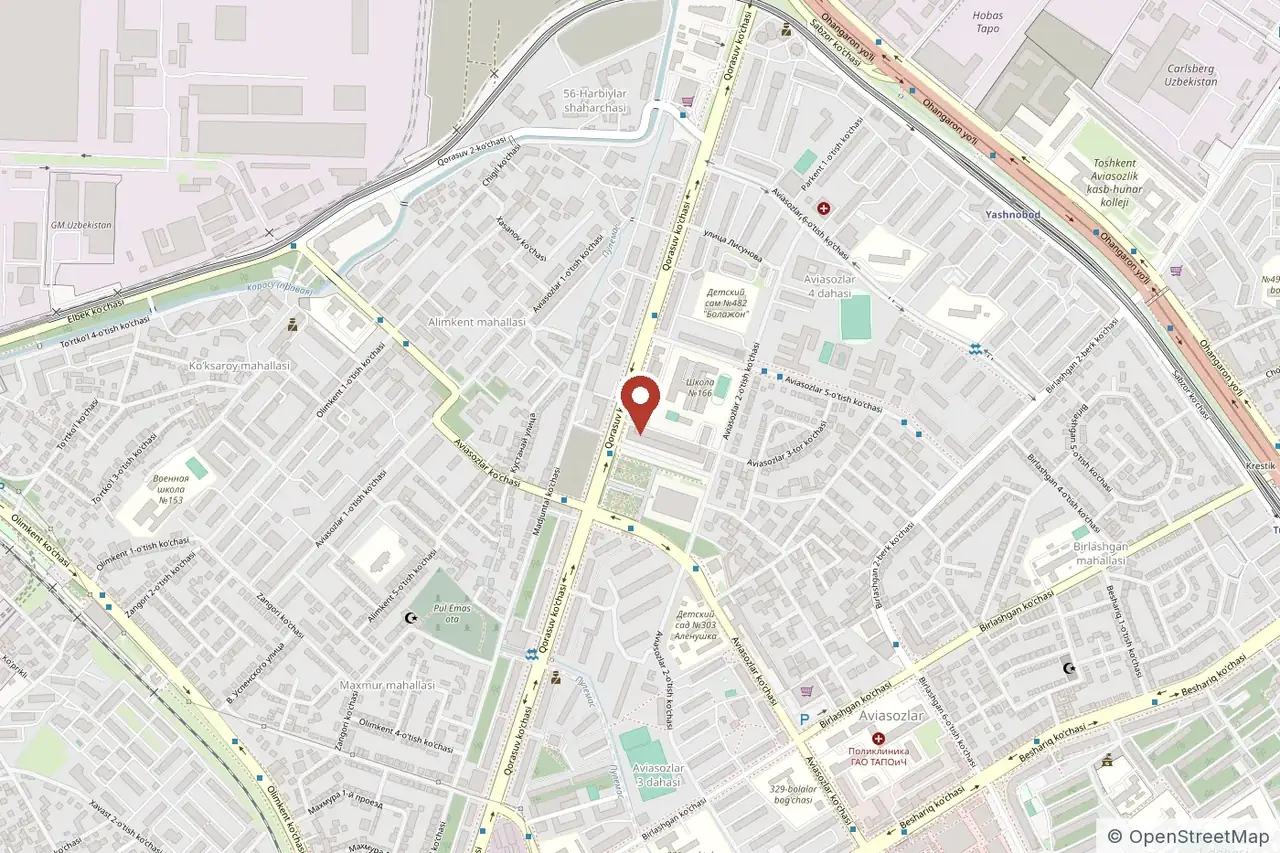
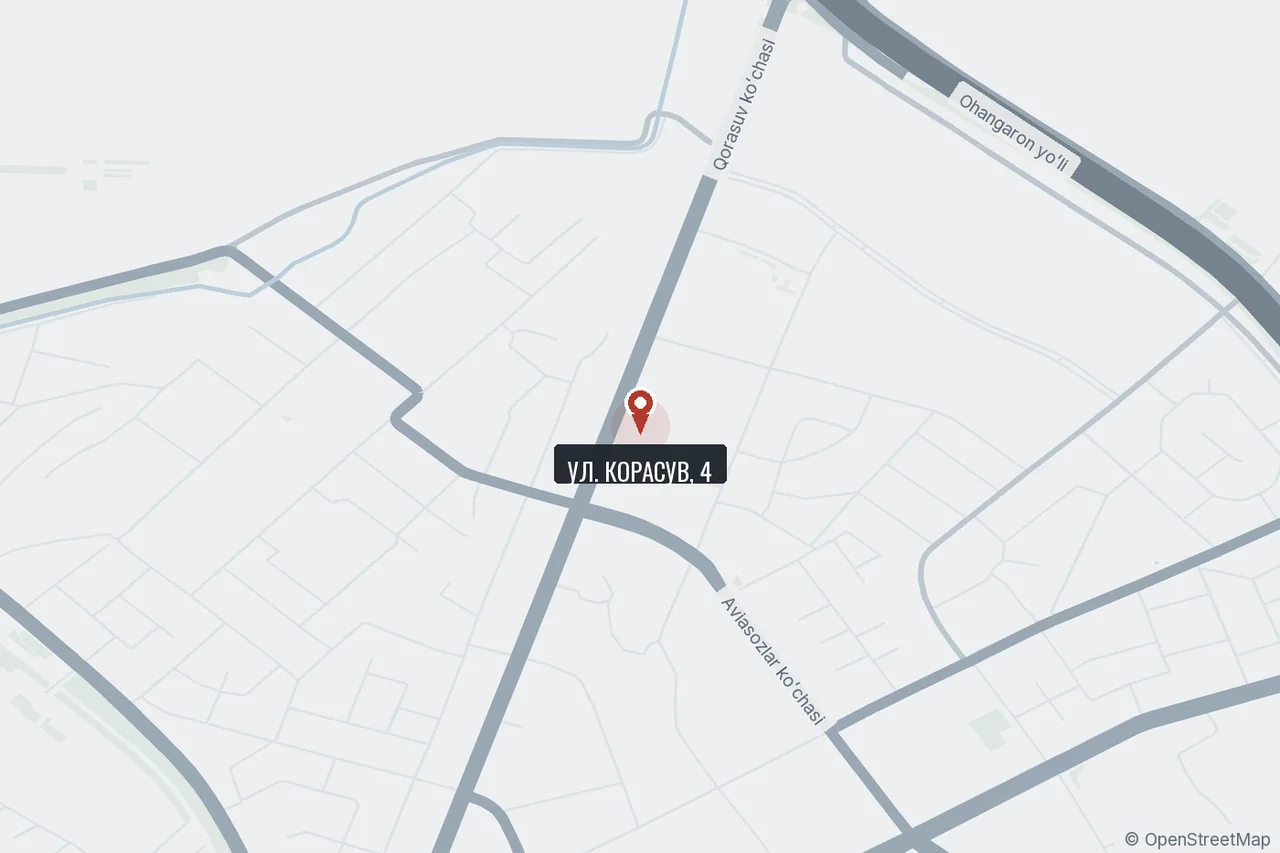
Карта перерисована в стиле сайта, новый идентификатор аналитики
Карта: вместо тайлов OpenStreetMap собственная отрисовка по их же
данным — только улицы четырёх уровней, зелень и вода крупными
пятнами, домов нет вовсе. Палитра сайта, подписаны три главные
улицы и адрес. Заодно втрое легче: 17 КБ на телефоне вместо 66,
35 КБ на десктопе вместо 144.

Аналитика переключена на G-3M7WH9J7M1.

diff --git a/uz/index.html b/uz/index.html
@@ -26,7 +26,7 @@
 <link rel="preload" as="image" type="image/webp" fetchpriority="high"
   imagesrcset="../img/hero-960.webp 960w, ../img/hero-1440.webp 1440w, ../img/hero-2000.webp 2000w"
   imagesizes="100vw" href="../img/hero-1440.webp">
-<link rel="stylesheet" href="../site.css?v=18">
+<link rel="stylesheet" href="../site.css?v=19">
 <script type="application/ld+json">
 {
  "@context": "https://schema.org",
@@ -406,9 +406,9 @@ document.querySelectorAll('img[data-slot]').forEach(function(img){
   if (img.complete) (img.naturalWidth ? fill : fail)();
 });
 </script>
-<script src="../config.js?v=18"></script>
-<script src="../analytics.js?v=18" defer></script>
-<script src="../form.js?v=18" defer></script>
-<script src="../sticky.js?v=18" defer></script>
+<script src="../config.js?v=19"></script>
+<script src="../analytics.js?v=19" defer></script>
+<script src="../form.js?v=19" defer></script>
+<script src="../sticky.js?v=19" defer></script>
 </body>
 </html>

diff --git a/index.html b/index.html
@@ -28,7 +28,7 @@
 <link rel="preload" as="image" type="image/webp" fetchpriority="high"
   imagesrcset="img/hero-960.webp 960w, img/hero-1440.webp 1440w, img/hero-2000.webp 2000w"
   imagesizes="100vw" href="img/hero-1440.webp">
-<link rel="stylesheet" href="site.css?v=18">
+<link rel="stylesheet" href="site.css?v=19">
 <script type="application/ld+json">
 {
  "@context": "https://schema.org",
@@ -408,9 +408,9 @@ document.querySelectorAll('img[data-slot]').forEach(function(img){
   if (img.complete) (img.naturalWidth ? fill : fail)();
 });
 </script>
-<script src="config.js?v=18"></script>
-<script src="analytics.js?v=18" defer></script>
-<script src="form.js?v=18" defer></script>
-<script src="sticky.js?v=18" defer></script>
+<script src="config.js?v=19"></script>
+<script src="analytics.js?v=19" defer></script>
+<script src="form.js?v=19" defer></script>
+<script src="sticky.js?v=19" defer></script>
 </body>
 </html>

diff --git a/uz/about.html b/uz/about.html
@@ -26,7 +26,7 @@
 <link rel="preload" as="image" type="image/webp" fetchpriority="high"
   imagesrcset="../img/page-about-800.webp 800w, ../img/page-about-1600.webp 1600w"
   imagesizes="100vw" href="../img/page-about-800.webp">
-<link rel="stylesheet" href="../site.css?v=18">
+<link rel="stylesheet" href="../site.css?v=19">
 </head>
 <body>
 
@@ -255,9 +255,9 @@ document.querySelectorAll('img[data-slot]').forEach(function(img){
   if (img.complete) (img.naturalWidth ? fill : fail)();
 });
 </script>
-<script src="../config.js?v=18"></script>
-<script src="../analytics.js?v=18" defer></script>
-<script src="../form.js?v=18" defer></script>
-<script src="../sticky.js?v=18" defer></script>
+<script src="../config.js?v=19"></script>
+<script src="../analytics.js?v=19" defer></script>
+<script src="../form.js?v=19" defer></script>
+<script src="../sticky.js?v=19" defer></script>
 </body>
 </html>

diff --git a/uz/service-certification.html b/uz/service-certification.html
@@ -26,7 +26,7 @@
 <link rel="preload" as="image" type="image/webp" fetchpriority="high"
   imagesrcset="../img/page-certification-800.webp 800w, ../img/page-certification-1600.webp 1600w"
   imagesizes="100vw" href="../img/page-certification-800.webp">
-<link rel="stylesheet" href="../site.css?v=18">
+<link rel="stylesheet" href="../site.css?v=19">
 <script type="application/ld+json">
 {
  "@context": "https://schema.org",
@@ -287,9 +287,9 @@
   </div>
 </footer>
 
-<script src="../config.js?v=18"></script>
-<script src="../analytics.js?v=18" defer></script>
-<script src="../form.js?v=18" defer></script>
-<script src="../sticky.js?v=18" defer></script>
+<script src="../config.js?v=19"></script>
+<script src="../analytics.js?v=19" defer></script>
+<script src="../form.js?v=19" defer></script>
+<script src="../sticky.js?v=19" defer></script>
 </body>
 </html>

diff --git a/about.html b/about.html
@@ -26,7 +26,7 @@
 <link rel="preload" as="image" type="image/webp" fetchpriority="high"
   imagesrcset="img/page-about-800.webp 800w, img/page-about-1600.webp 1600w"
   imagesizes="100vw" href="img/page-about-800.webp">
-<link rel="stylesheet" href="site.css?v=18">
+<link rel="stylesheet" href="site.css?v=19">
 </head>
 <body>
 
@@ -255,9 +255,9 @@ document.querySelectorAll('img[data-slot]').forEach(function(img){
   if (img.complete) (img.naturalWidth ? fill : fail)();
 });
 </script>
-<script src="config.js?v=18"></script>
-<script src="analytics.js?v=18" defer></script>
-<script src="form.js?v=18" defer></script>
-<script src="sticky.js?v=18" defer></script>
+<script src="config.js?v=19"></script>
+<script src="analytics.js?v=19" defer></script>
+<script src="form.js?v=19" defer></script>
+<script src="sticky.js?v=19" defer></script>
 </body>
 </html>

diff --git a/uz/service-clearance.html b/uz/service-clearance.html
@@ -26,7 +26,7 @@
 <link rel="preload" as="image" type="image/webp" fetchpriority="high"
   imagesrcset="../img/page-clearance-800.webp 800w, ../img/page-clearance-1600.webp 1600w"
   imagesizes="100vw" href="../img/page-clearance-800.webp">
-<link rel="stylesheet" href="../site.css?v=18">
+<link rel="stylesheet" href="../site.css?v=19">
 <script type="application/ld+json">
 {
  "@context": "https://schema.org",
@@ -276,9 +276,9 @@
   </div>
 </footer>
 
-<script src="../config.js?v=18"></script>
-<script src="../analytics.js?v=18" defer></script>
-<script src="../form.js?v=18" defer></script>
-<script src="../sticky.js?v=18" defer></script>
+<script src="../config.js?v=19"></script>
+<script src="../analytics.js?v=19" defer></script>
+<script src="../form.js?v=19" defer></script>
+<script src="../sticky.js?v=19" defer></script>
 </body>
 </html>

diff --git a/uz/service-warehouse.html b/uz/service-warehouse.html
@@ -26,7 +26,7 @@
 <link rel="preload" as="image" type="image/webp" fetchpriority="high"
   imagesrcset="../img/page-warehouse-800.webp 800w, ../img/page-warehouse-1600.webp 1600w"
   imagesizes="100vw" href="../img/page-warehouse-800.webp">
-<link rel="stylesheet" href="../site.css?v=18">
+<link rel="stylesheet" href="../site.css?v=19">
 <script type="application/ld+json">
 {
  "@context": "https://schema.org",
@@ -274,9 +274,9 @@
   </div>
 </footer>
 
-<script src="../config.js?v=18"></script>
-<script src="../analytics.js?v=18" defer></script>
-<script src="../form.js?v=18" defer></script>
-<script src="../sticky.js?v=18" defer></script>
+<script src="../config.js?v=19"></script>
+<script src="../analytics.js?v=19" defer></script>
+<script src="../form.js?v=19" defer></script>
+<script src="../sticky.js?v=19" defer></script>
 </body>
 </html>

diff --git a/uz/service-broker.html b/uz/service-broker.html
@@ -26,7 +26,7 @@
 <link rel="preload" as="image" type="image/webp" fetchpriority="high"
   imagesrcset="../img/page-broker-800.webp 800w, ../img/page-broker-1600.webp 1600w"
   imagesizes="100vw" href="../img/page-broker-800.webp">
-<link rel="stylesheet" href="../site.css?v=18">
+<link rel="stylesheet" href="../site.css?v=19">
 <script type="application/ld+json">
 {
  "@context": "https://schema.org",
@@ -276,9 +276,9 @@
   </div>
 </footer>
 
-<script src="../config.js?v=18"></script>
-<script src="../analytics.js?v=18" defer></script>
-<script src="../form.js?v=18" defer></script>
-<script src="../sticky.js?v=18" defer></script>
+<script src="../config.js?v=19"></script>
+<script src="../analytics.js?v=19" defer></script>
+<script src="../form.js?v=19" defer></script>
+<script src="../sticky.js?v=19" defer></script>
 </body>
 </html>

diff --git a/service-certification.html b/service-certification.html
@@ -26,7 +26,7 @@
 <link rel="preload" as="image" type="image/webp" fetchpriority="high"
   imagesrcset="img/page-certification-800.webp 800w, img/page-certification-1600.webp 1600w"
   imagesizes="100vw" href="img/page-certification-800.webp">
-<link rel="stylesheet" href="site.css?v=18">
+<link rel="stylesheet" href="site.css?v=19">
 <script type="application/ld+json">
 {
  "@context": "https://schema.org",
@@ -287,9 +287,9 @@
   </div>
 </footer>
 
-<script src="config.js?v=18"></script>
-<script src="analytics.js?v=18" defer></script>
-<script src="form.js?v=18" defer></script>
-<script src="sticky.js?v=18" defer></script>
+<script src="config.js?v=19"></script>
+<script src="analytics.js?v=19" defer></script>
+<script src="form.js?v=19" defer></script>
+<script src="sticky.js?v=19" defer></script>
 </body>
 </html>

diff --git a/service-clearance.html b/service-clearance.html
@@ -26,7 +26,7 @@
 <link rel="preload" as="image" type="image/webp" fetchpriority="high"
   imagesrcset="img/page-clearance-800.webp 800w, img/page-clearance-1600.webp 1600w"
   imagesizes="100vw" href="img/page-clearance-800.webp">
-<link rel="stylesheet" href="site.css?v=18">
+<link rel="stylesheet" href="site.css?v=19">
 <script type="application/ld+json">
 {
  "@context": "https://schema.org",
@@ -276,9 +276,9 @@
   </div>
 </footer>
 
-<script src="config.js?v=18"></script>
-<script src="analytics.js?v=18" defer></script>
-<script src="form.js?v=18" defer></script>
-<script src="sticky.js?v=18" defer></script>
+<script src="config.js?v=19"></script>
+<script src="analytics.js?v=19" defer></script>
+<script src="form.js?v=19" defer></script>
+<script src="sticky.js?v=19" defer></script>
 </body>
 </html>

diff --git a/service-warehouse.html b/service-warehouse.html
@@ -26,7 +26,7 @@
 <link rel="preload" as="image" type="image/webp" fetchpriority="high"
   imagesrcset="img/page-warehouse-800.webp 800w, img/page-warehouse-1600.webp 1600w"
   imagesizes="100vw" href="img/page-warehouse-800.webp">
-<link rel="stylesheet" href="site.css?v=18">
+<link rel="stylesheet" href="site.css?v=19">
 <script type="application/ld+json">
 {
  "@context": "https://schema.org",
@@ -274,9 +274,9 @@
   </div>
 </footer>
 
-<script src="config.js?v=18"></script>
-<script src="analytics.js?v=18" defer></script>
-<script src="form.js?v=18" defer></script>
-<script src="sticky.js?v=18" defer></script>
+<script src="config.js?v=19"></script>
+<script src="analytics.js?v=19" defer></script>
+<script src="form.js?v=19" defer></script>
+<script src="sticky.js?v=19" defer></script>
 </body>
 </html>

diff --git a/service-broker.html b/service-broker.html
@@ -26,7 +26,7 @@
 <link rel="preload" as="image" type="image/webp" fetchpriority="high"
   imagesrcset="img/page-broker-800.webp 800w, img/page-broker-1600.webp 1600w"
   imagesizes="100vw" href="img/page-broker-800.webp">
-<link rel="stylesheet" href="site.css?v=18">
+<link rel="stylesheet" href="site.css?v=19">
 <script type="application/ld+json">
 {
  "@context": "https://schema.org",
@@ -276,9 +276,9 @@
   </div>
 </footer>
 
-<script src="config.js?v=18"></script>
-<script src="analytics.js?v=18" defer></script>
-<script src="form.js?v=18" defer></script>
-<script src="sticky.js?v=18" defer></script>
+<script src="config.js?v=19"></script>
+<script src="analytics.js?v=19" defer></script>
+<script src="form.js?v=19" defer></script>
+<script src="sticky.js?v=19" defer></script>
 </body>
 </html>
